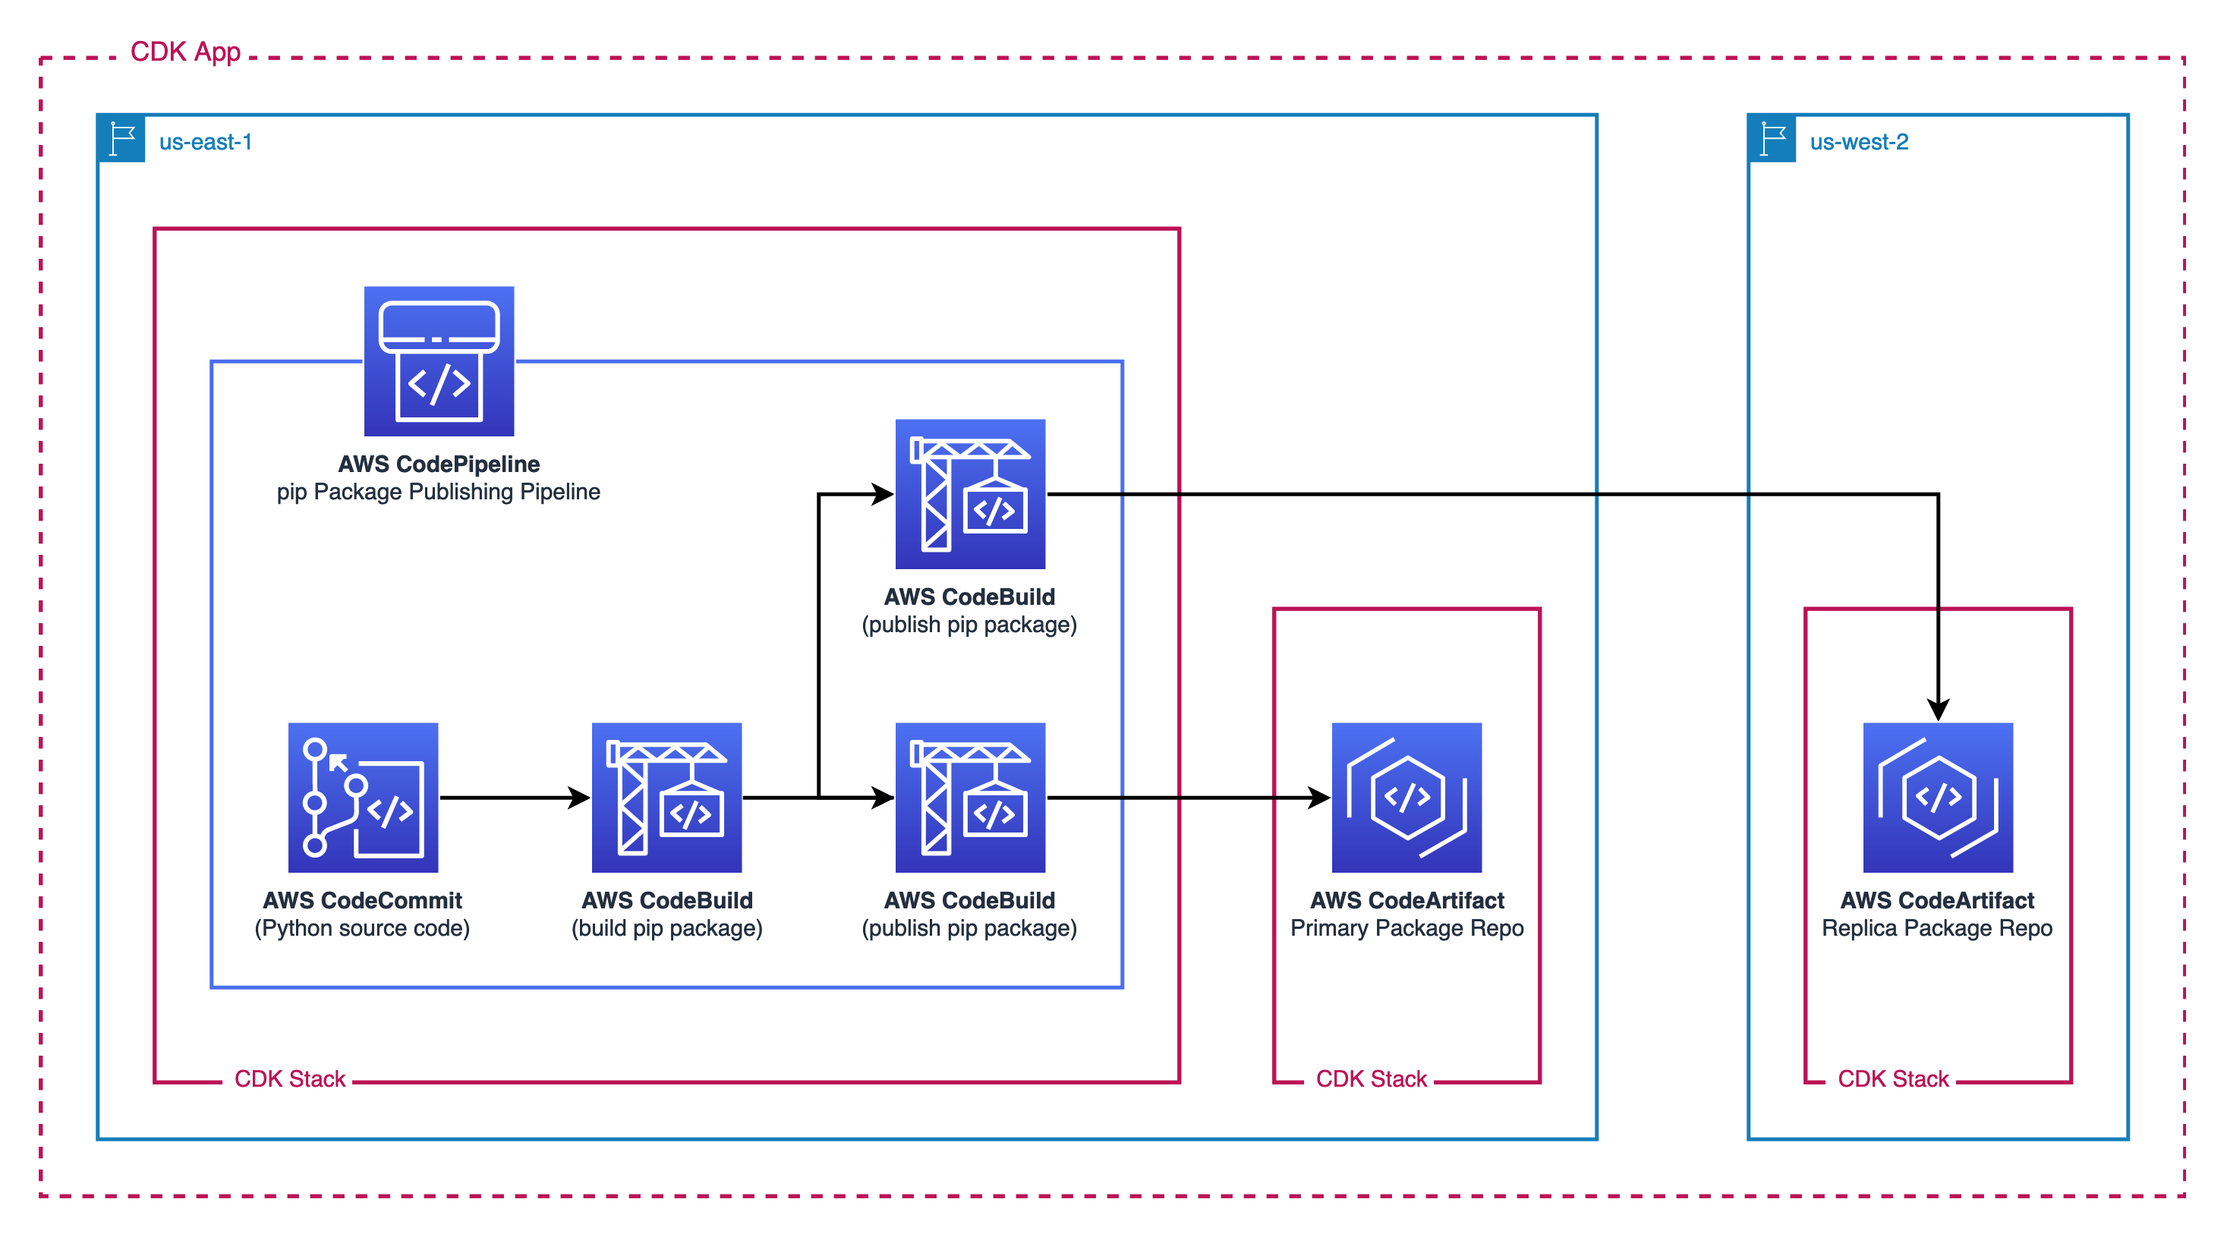
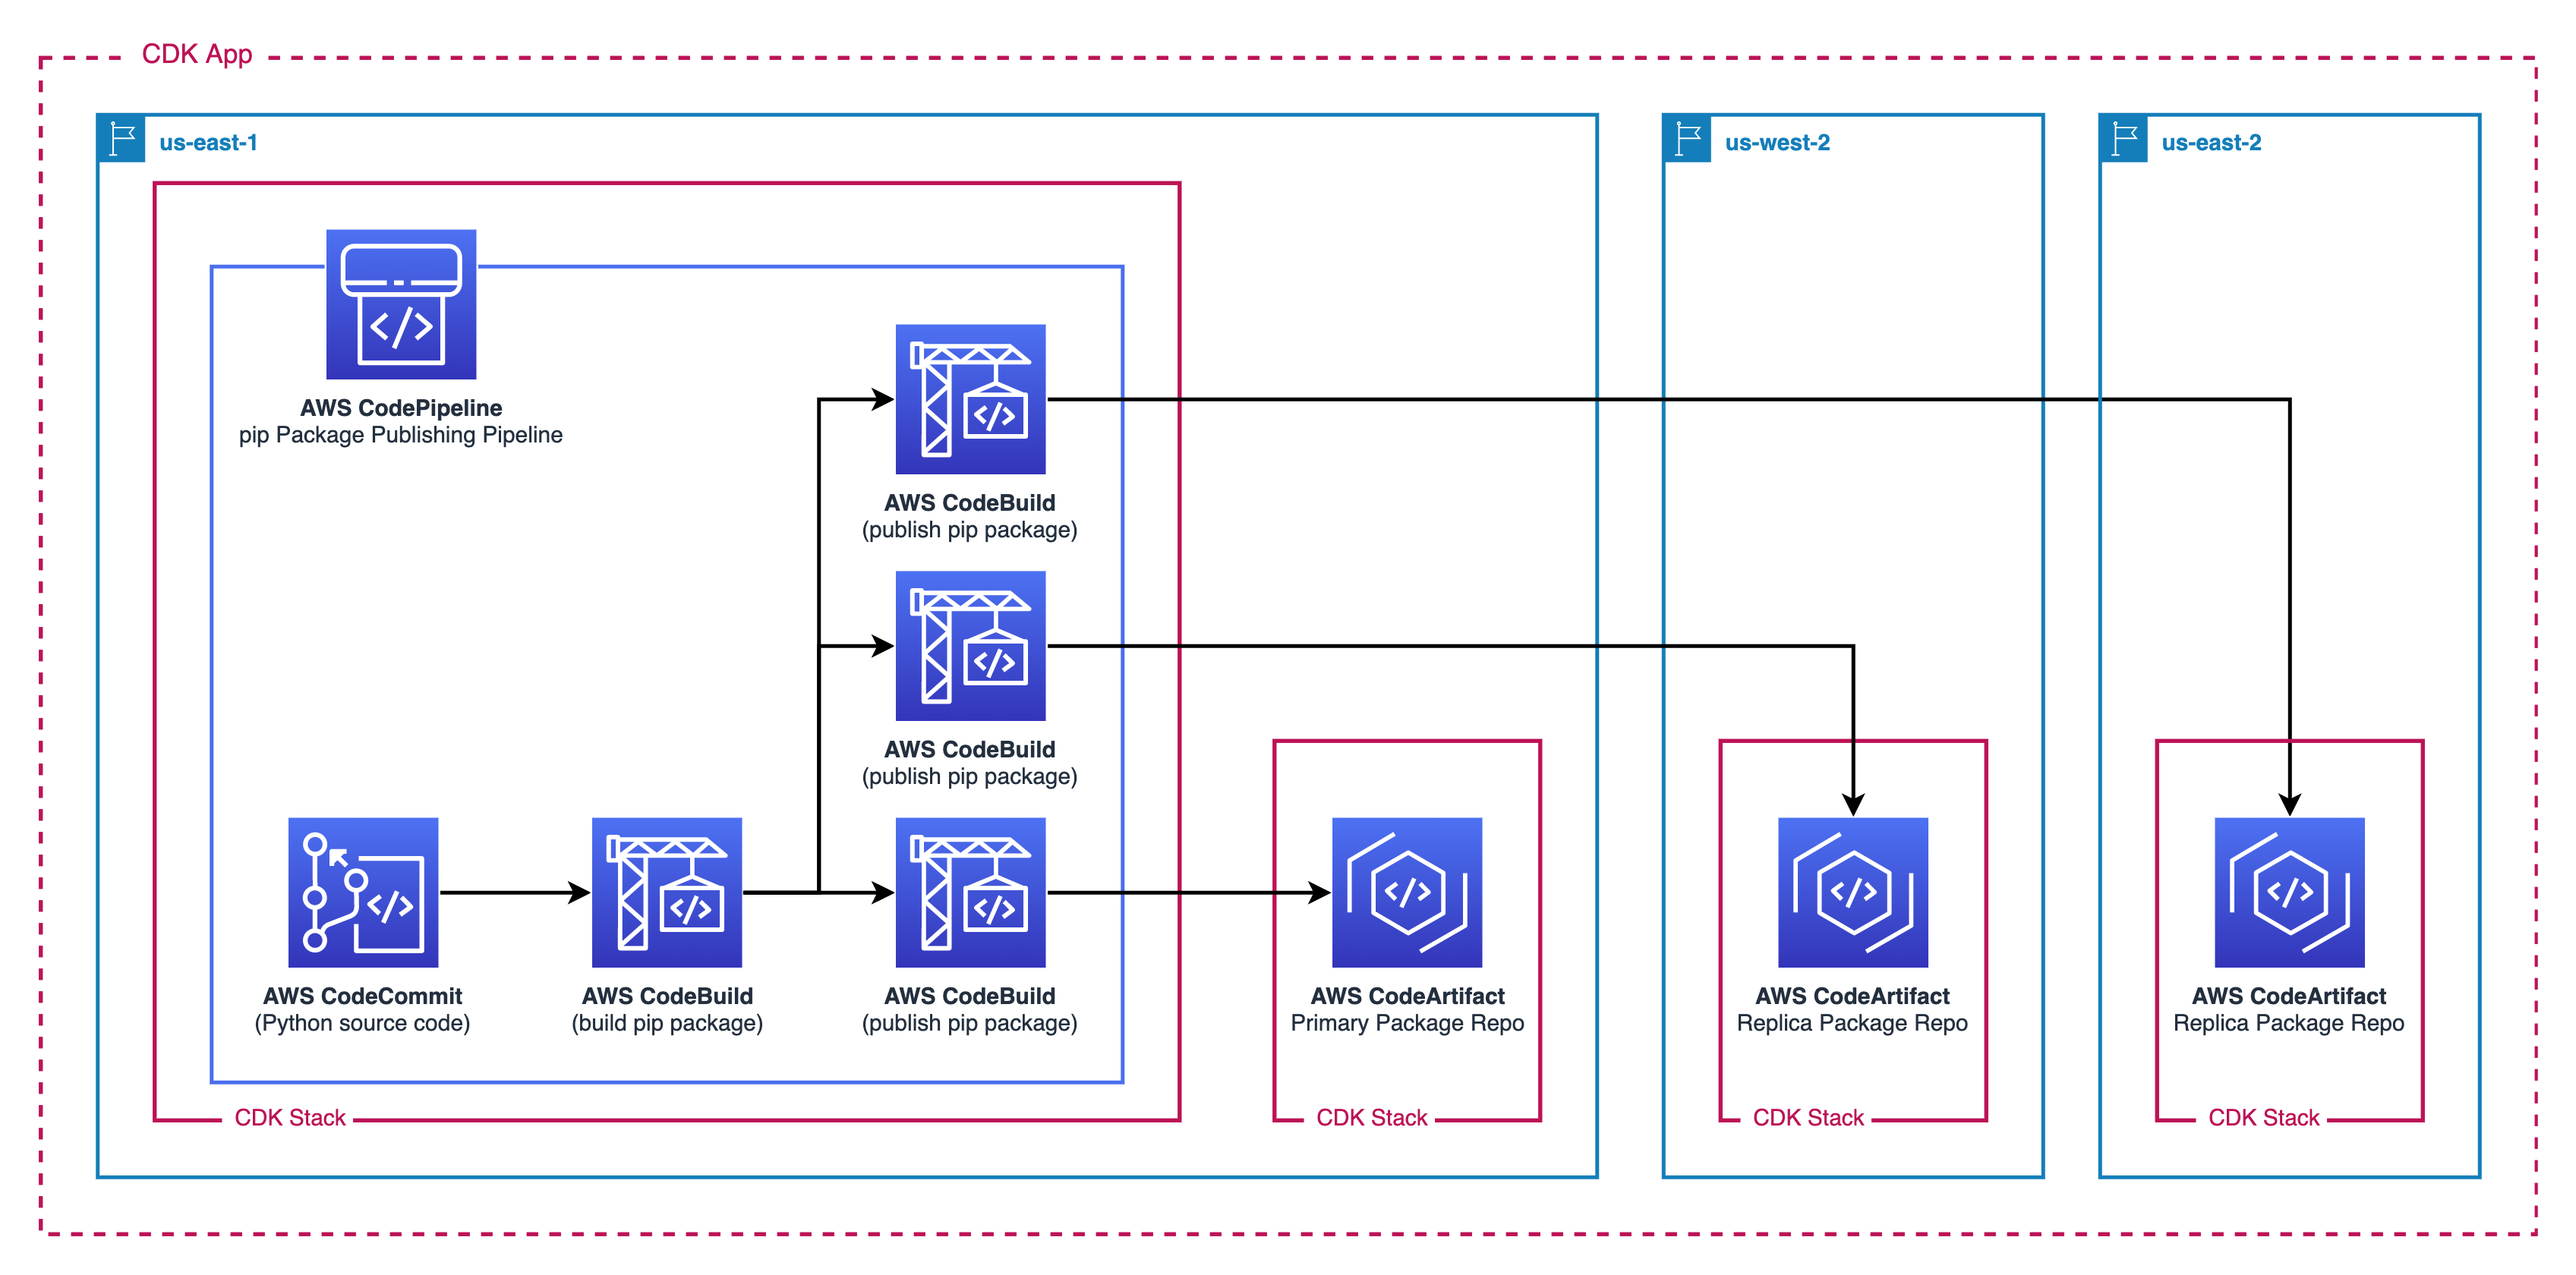
Multi region

diff --git a/lib/package_publishing_pipeline_stack.ts b/lib/package_publishing_pipeline_stack.ts
@@ -45,24 +45,6 @@ export class MultiRegionPackagePublishingPipelineStack extends Stack {
       },
       this
     );
-    const replicaCodeArtifactRepoArn = Arn.format(
-      {
-        service: 'codeartifact',
-        resource: 'repository',
-        region: params.replicaRegion,
-        resourceName: `${params.domainName}/${params.repositoryName}`,
-      },
-      this
-    );
-    const replicaCodeArtifactDomainArn = Arn.format(
-      {
-        service: 'codeartifact',
-        resource: 'domain',
-        region: params.replicaRegion,
-        resourceName: params.domainName,
-      },
-      this
-    );
     const packageDestinationArn = Arn.format(
       {
         service: 'codeartifact',
@@ -71,15 +53,50 @@ export class MultiRegionPackagePublishingPipelineStack extends Stack {
       },
       this
     );
-    const packageReplicaDestinationArn = Arn.format(
-      {
-        service: 'codeartifact',
-        resource: 'package',
-        resourceName: `${params.domainName}/${params.repositoryName}/*`,
-        region: params.replicaRegion,
-      },
-      this
-    );
+
+    var codeArtifactArns = [
+      primaryCodeArtifactRepoArn,
+      primaryCodeArtifactRepoArn + '/*',
+      primaryCodeArtifactDomainArn,
+      packageDestinationArn,
+    ];
+
+    for (var replicaRegion of params.replicaRegions) {
+      const replicaCodeArtifactRepoArn = Arn.format(
+        {
+          service: 'codeartifact',
+          resource: 'repository',
+          region: replicaRegion,
+          resourceName: `${params.domainName}/${params.repositoryName}`,
+        },
+        this
+      );
+      const replicaCodeArtifactDomainArn = Arn.format(
+        {
+          service: 'codeartifact',
+          resource: 'domain',
+          region: replicaRegion,
+          resourceName: params.domainName,
+        },
+        this
+      );
+      const packageReplicaDestinationArn = Arn.format(
+        {
+          service: 'codeartifact',
+          resource: 'package',
+          resourceName: `${params.domainName}/${params.repositoryName}/*`,
+          region: replicaRegion,
+        },
+        this
+      );
+      const replicaArns = [
+        replicaCodeArtifactRepoArn,
+        replicaCodeArtifactRepoArn + '/*',
+        replicaCodeArtifactDomainArn,
+        packageReplicaDestinationArn,
+      ];
+      replicaArns.map((arn) => codeArtifactArns.push(arn));
+    }
 
     /* 
     Create S3 bucket for storing pipeline artifacts between stages
@@ -236,17 +253,21 @@ export class MultiRegionPackagePublishingPipelineStack extends Stack {
       runOrder: 1,
     });
 
-    const publishReplicaAction = new codepipeline_actions.CodeBuildAction({
-      actionName: 'PublishReplicaRegion',
-      project: publishPackageProject,
-      input: buildOutput,
-      environmentVariables: {
-        region: {
-          value: params.replicaRegion,
+    const publishReplicaActions = [];
+    for (var replicaRegion of params.replicaRegions) {
+      const publishReplicaAction = new codepipeline_actions.CodeBuildAction({
+        actionName: `PublishReplicaRegion-${replicaRegion}`,
+        project: publishPackageProject,
+        input: buildOutput,
+        environmentVariables: {
+          region: {
+            value: replicaRegion,
+          },
         },
-      },
-      runOrder: 1,
-    });
+        runOrder: 1,
+      });
+      publishReplicaActions.push(publishReplicaAction);
+    }
 
     //allow the role for this phase's codebuild project to publish to codeartifact
     const CodeArtifactAccessPolicy = new iam.Policy(
@@ -258,16 +279,7 @@ export class MultiRegionPackagePublishingPipelineStack extends Stack {
           new iam.PolicyStatement({
             effect: iam.Effect.ALLOW,
             actions: ['codeartifact:*'],
-            resources: [
-              primaryCodeArtifactRepoArn,
-              replicaCodeArtifactRepoArn,
-              primaryCodeArtifactRepoArn + '/*',
-              replicaCodeArtifactRepoArn + '/*',
-              primaryCodeArtifactDomainArn,
-              replicaCodeArtifactDomainArn,
-              packageDestinationArn,
-              packageReplicaDestinationArn,
-            ],
+            resources: codeArtifactArns,
           }),
           new iam.PolicyStatement({
             effect: iam.Effect.ALLOW,
@@ -301,7 +313,7 @@ export class MultiRegionPackagePublishingPipelineStack extends Stack {
         },
         {
           stageName: 'Publish',
-          actions: [publishPrimaryAction, publishReplicaAction],
+          actions: [publishPrimaryAction, ...publishReplicaActions],
         },
       ],
     });

diff --git a/bin/multiregion_package_publishing.ts b/bin/multiregion_package_publishing.ts
@@ -18,7 +18,7 @@ Aspects.of(app).add(new AwsSolutionsChecks({ verbose: true }));
 const domainName = 'custom-package-domain'; //CodeArtifact Domain
 const repositoryName = 'package-artifact-repo'; //CodeArtifact Repository
 const primaryRegion = 'us-east-1'; //Primary CodeArtifact Repo Region
-const replicaRegion = 'us-west-2'; //Replica CodeArtifact Repo Region
+const replicaRegions = ['us-west-2', 'us-east-2']; //Replica CodeArtifact Repo Regions
 
 const artifactParams: CodeArtifactStackParams = {
   domainName,
@@ -27,21 +27,23 @@ const artifactParams: CodeArtifactStackParams = {
 
 const primaryCodeArtifactStack = new CodeArtifactStack(
   app,
-  'CodeArtifactStack',
+  `CodeArtifactPrimaryStack-${primaryRegion}`,
   artifactParams,
   {
     env: { region: primaryRegion },
   }
 );
 
-const replicaCodeArtifactStack = new CodeArtifactStack(
-  app,
-  'CodeArtifactReplicaStack',
-  artifactParams,
-  {
-    env: { region: replicaRegion },
-  }
-);
+for (var replicaRegion of replicaRegions) {
+  const replicaRegionCodeArtifact = new CodeArtifactStack(
+    app,
+    `CodeArtifactReplicaStack-${replicaRegion}`,
+    artifactParams,
+    {
+      env: { region: replicaRegion },
+    }
+  );
+}
 
 const accountId = cdk.Stack.of(primaryCodeArtifactStack).account;
 
@@ -49,7 +51,7 @@ const params: PipelineStackParams = {
   domainName,
   repositoryName,
   primaryRegion,
-  replicaRegion,
+  replicaRegions,
   accountId,
 };
 

diff --git a/lib/types.ts b/lib/types.ts
@@ -5,7 +5,7 @@ interface PipelineStackParams {
   domainName: string;
   repositoryName: string;
   primaryRegion: string;
-  replicaRegion: string;
+  replicaRegions: string[];
   accountId: string;
 }
 

diff --git a/lib/custom-package-source-code/setup.py b/lib/custom-package-source-code/setup.py
@@ -4,20 +4,19 @@
 """A setuptools based setup module.
 See:
 https://packaging.python.org/en/latest/distributing.html
-https://github.com/pypa/sampleproject
 """
 
 from setuptools import setup, find_packages
 
 setup(
-    name='mypippackage',
+    name = 'mypippackage',
 
-    version='1.0.0',
+    version = '1.0.0',
 
-    description='An sample Python package',
-    license='MIT',
+    description = 'An sample Python package',
+    license = 'MIT',
     package_dir = {"": "customPackages"},
     packages = find_packages(where="customPackages"),
-    python_requires= '>=3.6'
+    python_requires = '>=3.6'
 
 )

diff --git a/README.md b/README.md
@@ -32,7 +32,7 @@ This git repository is designed to demonstrate how to build and publish pip pack
 
 ## Investigate what you've built
 
-Look at the CodePipeline that has three stages (Source, Build, and Publish) and the monitor the CodeBuild Projects in the Build/Publish phases while you wait for the pipeline to complete. After ~7 minutes, the pipeline have a status of success
+Look at the CodePipeline that has three stages (Source, Build, and Publish) and the monitor the CodeBuild Projects in the Build/Publish phases while you wait for the pipeline to complete. After ~7 minutes, the pipeline should have a status of success
 
 Navigate to the CodeCommit Repository which has the Source Code for your Custom pip Package. Follow the instructions in the CodeCommit `PackageSourceCode` Repository's README (source code originates from [this directory](./lib/custom-package-source-code)) to add a commit to the `main` branch and trigger the pipeline to run again
 
